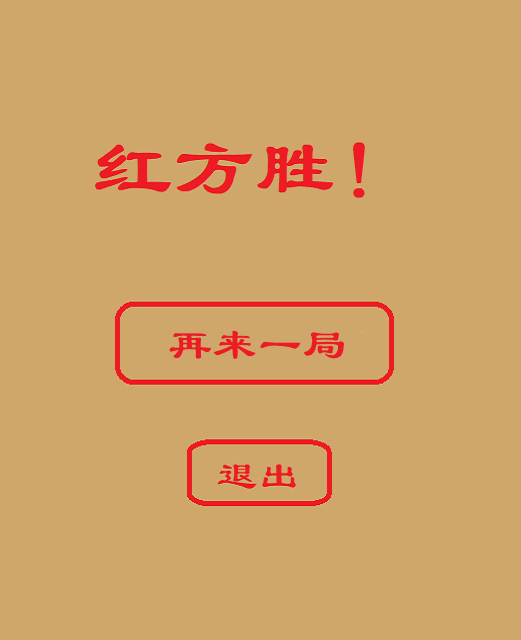
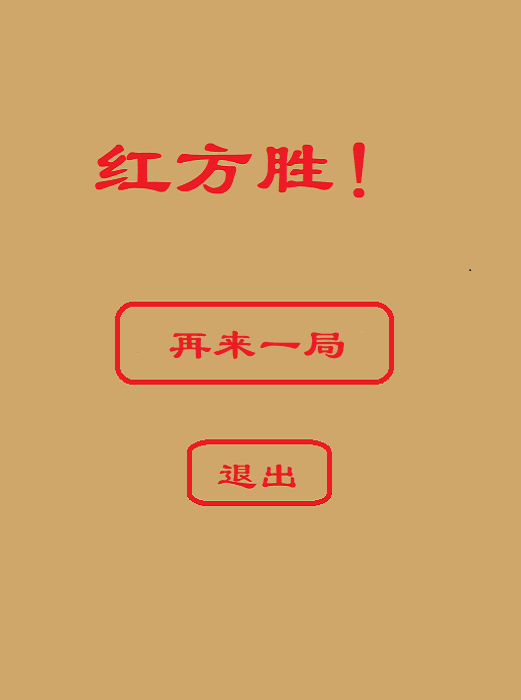
界面调整，新增图片

diff --git a/Draw_and_Sound.py b/Draw_and_Sound.py
@@ -83,7 +83,7 @@ class DrawType:
         icon = pygame.image.load("images/图标.png")
         pygame.display.set_icon(icon)
         # 创建窗口
-        self.screen = pygame.display.set_mode((521, 640))
+        self.screen = pygame.display.set_mode((521, 700))
 
         # 背景图片
         self.start_img = pygame.image.load('images/开始界面.png')
